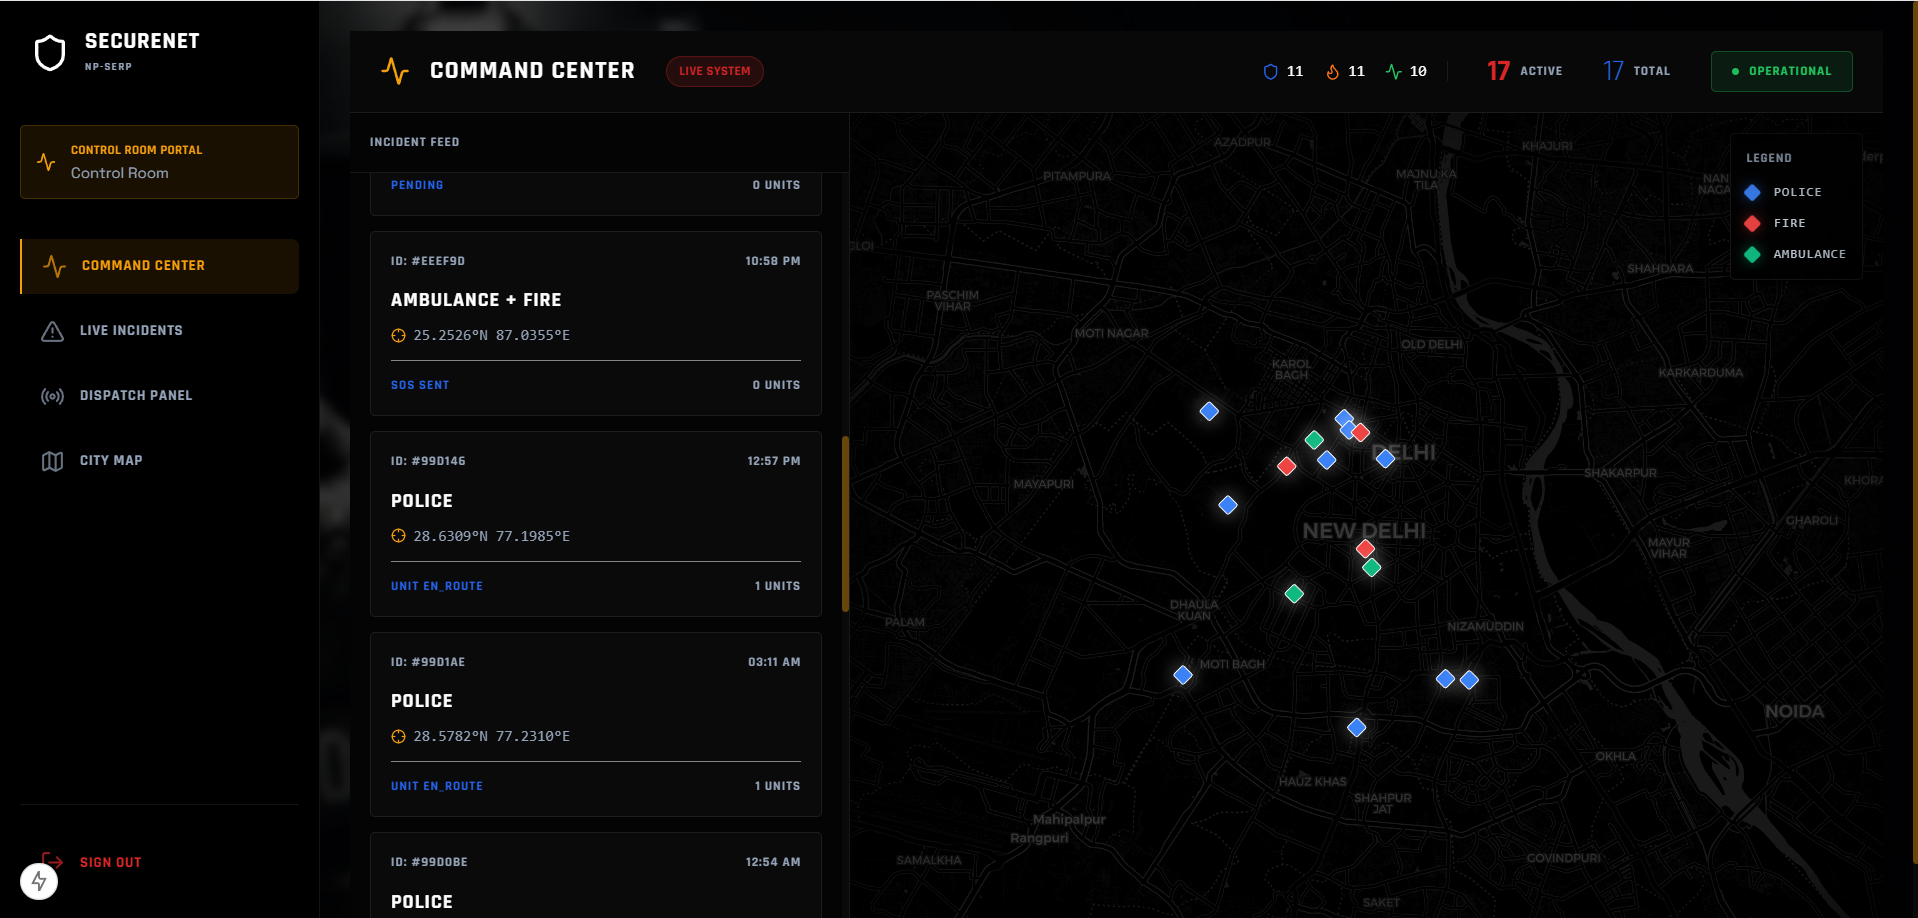
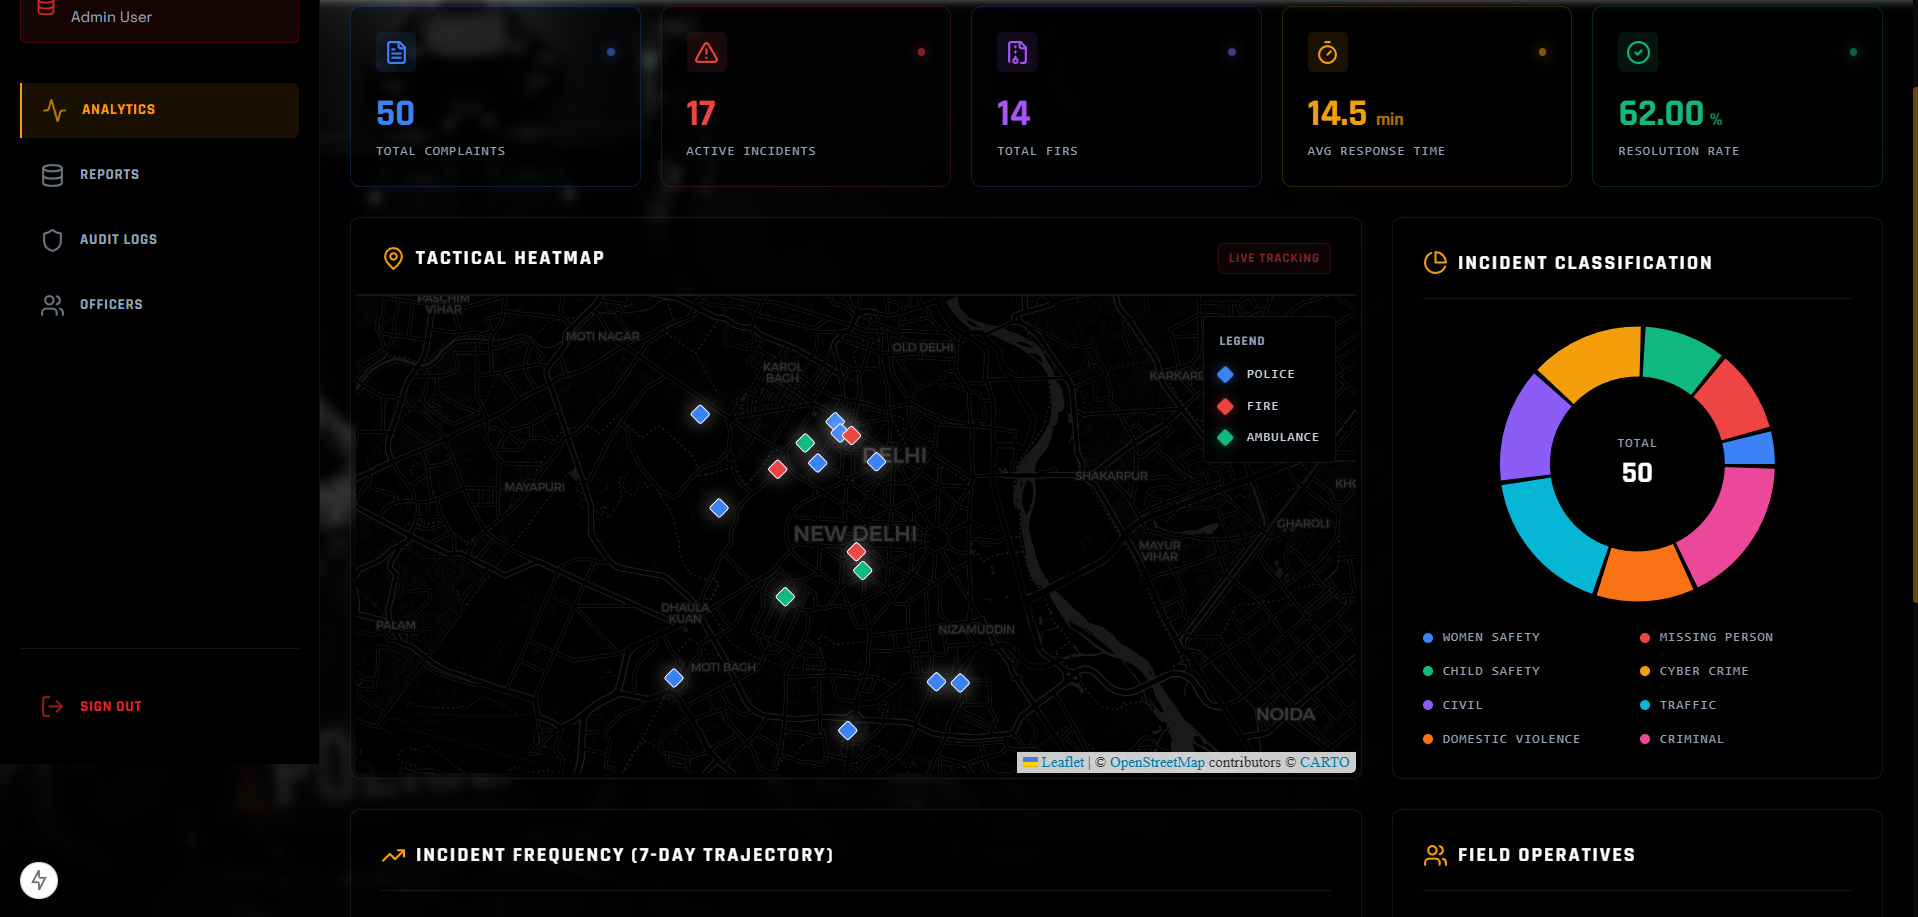
analytical maps

diff --git a/apps/web/app/(authority)/authority/dashboard/page.tsx b/apps/web/app/(authority)/authority/dashboard/page.tsx
@@ -5,12 +5,17 @@ import { fetchApi } from "@/lib/api";
 import {
   PieChart, Pie, Cell, LineChart, Line, XAxis, YAxis, CartesianGrid, Tooltip, ResponsiveContainer
 } from "recharts";
-import HeatMap from "@/components/maps/HeatMap";
-import { 
-  FileText, AlertTriangle, FileArchive, Timer, CheckCircle2, 
-  RefreshCw, MapPin, PieChart as PieChartIcon, TrendingUp, Users, 
+import dynamic from "next/dynamic";
+import {
+  FileText, AlertTriangle, FileArchive, Timer, CheckCircle2,
+  RefreshCw, MapPin, PieChart as PieChartIcon, TrendingUp, Users,
   Download, Search, Shield, Wifi
 } from "lucide-react";
+
+const ControlRoomMap = dynamic(
+  () => import("@/components/maps/ControlRoomMap"),
+  { ssr: false }
+);
 
 interface KPI {
   totalComplaints: number;
@@ -24,44 +29,49 @@ interface CrimeTrend { name: string; value: number; }
 interface TimeTrend { date: string; incidents: number; }
 interface Officer { name: string; badge: string; status: string; casesResolved: number; avgTime: number; }
 
-const CHART_COLORS = ["#3b82f6","#ef4444","#10b981","#f59e0b","#8b5cf6","#06b6d4","#f97316","#ec4899"];
+const CHART_COLORS = ["#3b82f6", "#ef4444", "#10b981", "#f59e0b", "#8b5cf6", "#06b6d4", "#f97316", "#ec4899"];
 
 export default function AuthorityDashboard() {
-  const [kpi, setKpi]               = useState<KPI | null>(null);
-  const [trends, setTrends]         = useState<CrimeTrend[]>([]);
+  const [kpi, setKpi] = useState<KPI | null>(null);
+  const [trends, setTrends] = useState<CrimeTrend[]>([]);
   const [timeTrends, setTimeTrends] = useState<TimeTrend[]>([]);
-  const [officers, setOfficers]     = useState<Officer[]>([]);
-  const [loading, setLoading]       = useState(true);
+  const [officers, setOfficers] = useState<Officer[]>([]);
+  const [incidents, setIncidents] = useState<any[]>([]);
+  const [loading, setLoading] = useState(true);
 
   useEffect(() => { fetchAll(); }, []);
 
   const fetchAll = async () => {
     try {
-      const [kpiRes, trendsRes, timeTrendsRes, officersRes] = await Promise.all([
+      const [kpiRes, trendsRes, timeTrendsRes, officersRes, incidentsRes] = await Promise.all([
         fetchApi("/analytics/kpis"),
         fetchApi("/analytics/trends"),
-        fetchApi("/analytics/time-trends").catch(() => ({ data: [
-          { date: "Mon", incidents: 12 }, { date: "Tue", incidents: 19 },
-          { date: "Wed", incidents: 15 }, { date: "Thu", incidents: 25 },
-          { date: "Fri", incidents: 22 }, { date: "Sat", incidents: 30 },
-          { date: "Sun", incidents: 28 }
-        ]})), // fallback mock if endpoint doesn't exist yet
+        fetchApi("/analytics/time-trends").catch(() => ({
+          data: [
+            { date: "Mon", incidents: 12 }, { date: "Tue", incidents: 19 },
+            { date: "Wed", incidents: 15 }, { date: "Thu", incidents: 25 },
+            { date: "Fri", incidents: 22 }, { date: "Sat", incidents: 30 },
+            { date: "Sun", incidents: 28 }
+          ]
+        })), // fallback mock if endpoint doesn't exist yet
         fetchApi("/analytics/officers"),
+        fetchApi("/dispatch/active-incidents"),
       ]);
       setKpi(kpiRes.data);
       setTrends(trendsRes.data || []);
       setTimeTrends(timeTrendsRes.data || []);
       setOfficers(officersRes.data || []);
-    } catch {}
+      setIncidents(incidentsRes.data || []);
+    } catch { }
     finally { setLoading(false); }
   };
 
   const kpiCards = kpi ? [
-    { label: "Total Complaints",    value: kpi.totalComplaints,              suffix: "",    icon: <FileText className="w-5 h-5"/>, color: "text-blue-500", bg: "bg-blue-500/10", border: "border-blue-500/20", glow: "#3b82f6" },
-    { label: "Active Incidents",    value: kpi.activeIncidents,              suffix: "",    icon: <AlertTriangle className="w-5 h-5"/>, color: "text-red-500", bg: "bg-red-500/10", border: "border-red-500/20", glow: "#ef4444" },
-    { label: "Total FIRs",          value: kpi.totalFIRs,                    suffix: "",    icon: <FileArchive className="w-5 h-5"/>, color: "text-purple-500", bg: "bg-purple-500/10", border: "border-purple-500/20", glow: "#8b5cf6" },
-    { label: "Avg Response Time",   value: kpi.avgResponseTimeMin,           suffix: " min",icon: <Timer className="w-5 h-5"/>, color: "text-amber-500", bg: "bg-amber-500/10", border: "border-amber-500/20", glow: "#f59e0b" },
-    { label: "Resolution Rate",     value: kpi.resolutionRate,               suffix: "%",   icon: <CheckCircle2 className="w-5 h-5"/>, color: "text-emerald-500", bg: "bg-emerald-500/10", border: "border-emerald-500/20", glow: "#10b981" },
+    { label: "Total Complaints", value: kpi.totalComplaints, suffix: "", icon: <FileText className="w-5 h-5" />, color: "text-blue-500", bg: "bg-blue-500/10", border: "border-blue-500/20", glow: "#3b82f6" },
+    { label: "Active Incidents", value: kpi.activeIncidents, suffix: "", icon: <AlertTriangle className="w-5 h-5" />, color: "text-red-500", bg: "bg-red-500/10", border: "border-red-500/20", glow: "#ef4444" },
+    { label: "Total FIRs", value: kpi.totalFIRs, suffix: "", icon: <FileArchive className="w-5 h-5" />, color: "text-purple-500", bg: "bg-purple-500/10", border: "border-purple-500/20", glow: "#8b5cf6" },
+    { label: "Avg Response Time", value: kpi.avgResponseTimeMin, suffix: " min", icon: <Timer className="w-5 h-5" />, color: "text-amber-500", bg: "bg-amber-500/10", border: "border-amber-500/20", glow: "#f59e0b" },
+    { label: "Resolution Rate", value: kpi.resolutionRate, suffix: "%", icon: <CheckCircle2 className="w-5 h-5" />, color: "text-emerald-500", bg: "bg-emerald-500/10", border: "border-emerald-500/20", glow: "#10b981" },
   ] : [];
 
   return (
@@ -123,7 +133,7 @@ export default function AuthorityDashboard() {
 
       {/* Main Grid: Heatmap + Charts */}
       <div className="grid grid-cols-1 lg:grid-cols-3 gap-6">
-        
+
         {/* Crime Heatmap Overlay */}
         <div className="lg:col-span-2 glass-card p-1 flex flex-col h-[450px]">
           <div className="px-5 py-4 border-b border-surface-border flex justify-between items-center bg-black/60 rounded-t">
@@ -133,9 +143,8 @@ export default function AuthorityDashboard() {
             <span className="text-[10px] font-heading font-bold px-2 py-1 bg-red-500/10 text-red-500 rounded border border-red-500/30 animate-pulse uppercase tracking-widest">LIVE TRACKING</span>
           </div>
           <div className="flex-1 rounded-b overflow-hidden relative border-t border-surface-border">
-            {/* The HeatMap component internally handles the map rendering. Assuming it has dark mode tiles, but we'll dim it slightly here just in case. */}
-            <div className="w-full h-full brightness-75 contrast-125 saturate-50">
-              <HeatMap />
+            <div className="w-full h-full">
+              <ControlRoomMap incidents={incidents} />
             </div>
           </div>
         </div>
@@ -162,14 +171,14 @@ export default function AuthorityDashboard() {
                     <Cell key={`cell-${index}`} fill={CHART_COLORS[index % CHART_COLORS.length]} />
                   ))}
                 </Pie>
-                <Tooltip 
+                <Tooltip
                   contentStyle={{ backgroundColor: "#050505", borderColor: "#1e293b", borderRadius: "4px", fontFamily: "monospace", fontSize: "10px", textTransform: "uppercase" }}
                   itemStyle={{ color: "#e2e8f0" }}
                   formatter={(value: any, name: any) => [value, String(name).replace("_", " ")]}
                 />
               </PieChart>
             </ResponsiveContainer>
-            
+
             {/* Center Label Overlay */}
             <div className="absolute inset-0 flex items-center justify-center pointer-events-none">
               <div className="text-center">
@@ -200,17 +209,17 @@ export default function AuthorityDashboard() {
                 <CartesianGrid strokeDasharray="3 3" stroke="#1e293b" vertical={false} />
                 <XAxis dataKey="date" stroke="#64748b" fontSize={10} fontFamily="monospace" tickLine={false} axisLine={false} dy={10} tick={{ fill: '#64748b', fontWeight: 'bold' }} />
                 <YAxis stroke="#64748b" fontSize={10} fontFamily="monospace" tickLine={false} axisLine={false} dx={-10} tick={{ fill: '#64748b', fontWeight: 'bold' }} />
-                <Tooltip 
+                <Tooltip
                   contentStyle={{ backgroundColor: "#050505", borderColor: "#1e293b", borderRadius: "4px", fontFamily: "monospace", fontSize: "10px", textTransform: "uppercase" }}
                   itemStyle={{ color: "#3b82f6" }}
                 />
-                <Line 
-                  type="monotone" 
-                  dataKey="incidents" 
-                  stroke="#3b82f6" 
-                  strokeWidth={2} 
-                  dot={{ fill: "#050505", stroke: "#3b82f6", strokeWidth: 2, r: 4 }} 
-                  activeDot={{ r: 6, fill: "#60a5fa", stroke: "#050505", strokeWidth: 2 }} 
+                <Line
+                  type="monotone"
+                  dataKey="incidents"
+                  stroke="#3b82f6"
+                  strokeWidth={2}
+                  dot={{ fill: "#050505", stroke: "#3b82f6", strokeWidth: 2, r: 4 }}
+                  activeDot={{ r: 6, fill: "#60a5fa", stroke: "#050505", strokeWidth: 2 }}
                 />
               </LineChart>
             </ResponsiveContainer>
@@ -246,8 +255,8 @@ export default function AuthorityDashboard() {
                       <td className="py-4">
                         <span
                           className={`px-2 py-0.5 rounded text-[9px] font-bold tracking-widest border
-                            ${o.status === "AVAILABLE" 
-                              ? "bg-emerald-500/10 text-emerald-400 border-emerald-500/30" 
+                            ${o.status === "AVAILABLE"
+                              ? "bg-emerald-500/10 text-emerald-400 border-emerald-500/30"
                               : "bg-amber-500/10 text-amber-400 border-amber-500/30"
                             }`}
                         >
@@ -264,12 +273,14 @@ export default function AuthorityDashboard() {
         </div>
       </div>
 
+
+
       {/* Bottom row */}
       <div className="grid grid-cols-1 md:grid-cols-3 gap-4">
         {[
-          { href: "/authority/reports",  icon: <Download className="w-6 h-6"/>, label: "GENERATE REPORT", desc: "Download incident summary PDF" },
-          { href: "/authority/audit",    icon: <Search className="w-6 h-6"/>,   label: "SYSTEM AUDIT",    desc: "Track all network actions" },
-          { href: "/authority/officers", icon: <Shield className="w-6 h-6"/>,   label: "MANAGE OPERATIVES",desc: "CRUD officer credentials" },
+          { href: "/authority/reports", icon: <Download className="w-6 h-6" />, label: "GENERATE REPORT", desc: "Download incident summary PDF" },
+          { href: "/authority/audit", icon: <Search className="w-6 h-6" />, label: "SYSTEM AUDIT", desc: "Track all network actions" },
+          { href: "/authority/officers", icon: <Shield className="w-6 h-6" />, label: "MANAGE OPERATIVES", desc: "CRUD officer credentials" },
         ].map((l) => (
           <a key={l.href} href={l.href} className="glass-card p-5 border border-surface-border hover:border-accent/50 hover:bg-accent/5 transition-all flex gap-4 items-center group">
             <div className="w-12 h-12 rounded flex items-center justify-center flex-shrink-0 bg-accent/10 text-accent group-hover:bg-accent/20 transition-colors">

diff --git a/maps_demonstration.md b/maps_demonstration.md
@@ -26,4 +26,12 @@ Field units (Police, Fire, Medical) have access to dedicated **Field Navigation*
 - **Dynamic ETA**: Displays live Estimated Time of Arrival updates.
 - **Cross-Platform Visibility**: The exact location of the responding unit is shared synchronously with both the citizen in distress and the central control room.
 
-> **Note**: To ensure the images render correctly on GitHub, please save your screenshots as `command_center_map.png` and `field_navigation_map.png` in the `images` folder of this repository.
+> **Note**: To ensure the images render correctly on GitHub, please save your screenshots as `command_center_map.png`, `field_navigation_map.png`, and `incident_and_operative_analysis.png` in the `images` folder of this repository.
+
+---
+
+## Incident & Operative Analysis
+
+Detailed view of the incident statistics and operative metrics to ensure maximum efficiency.
+
+![Incident and Operative Analysis](./images/incident_and_operative_analysis.png)